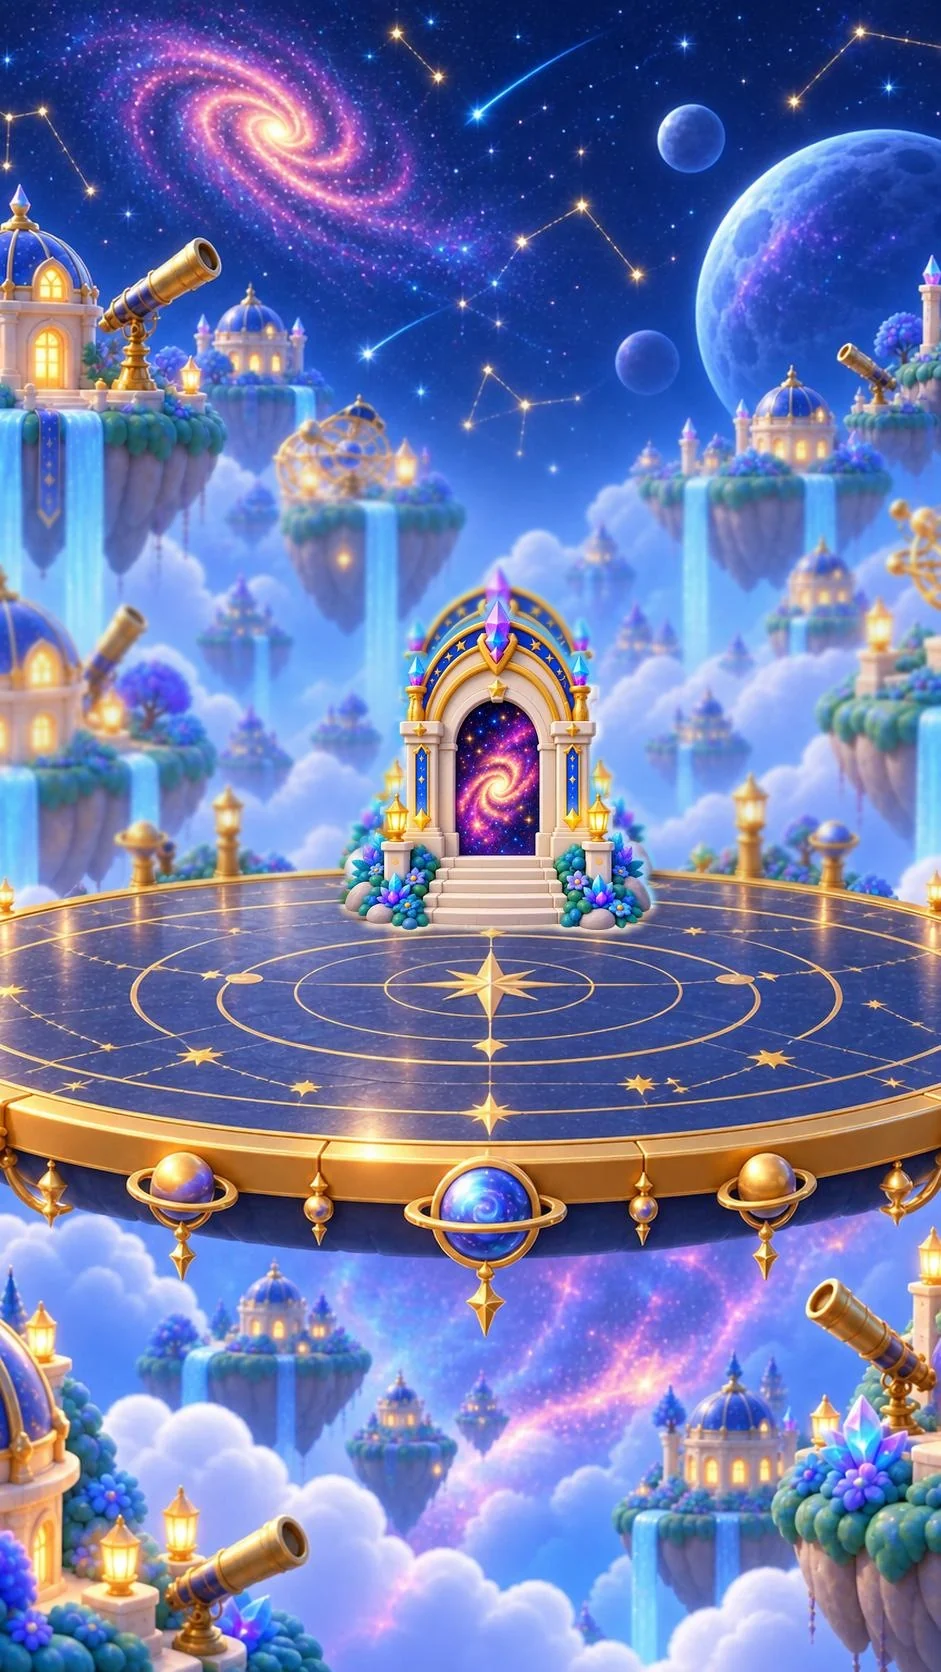
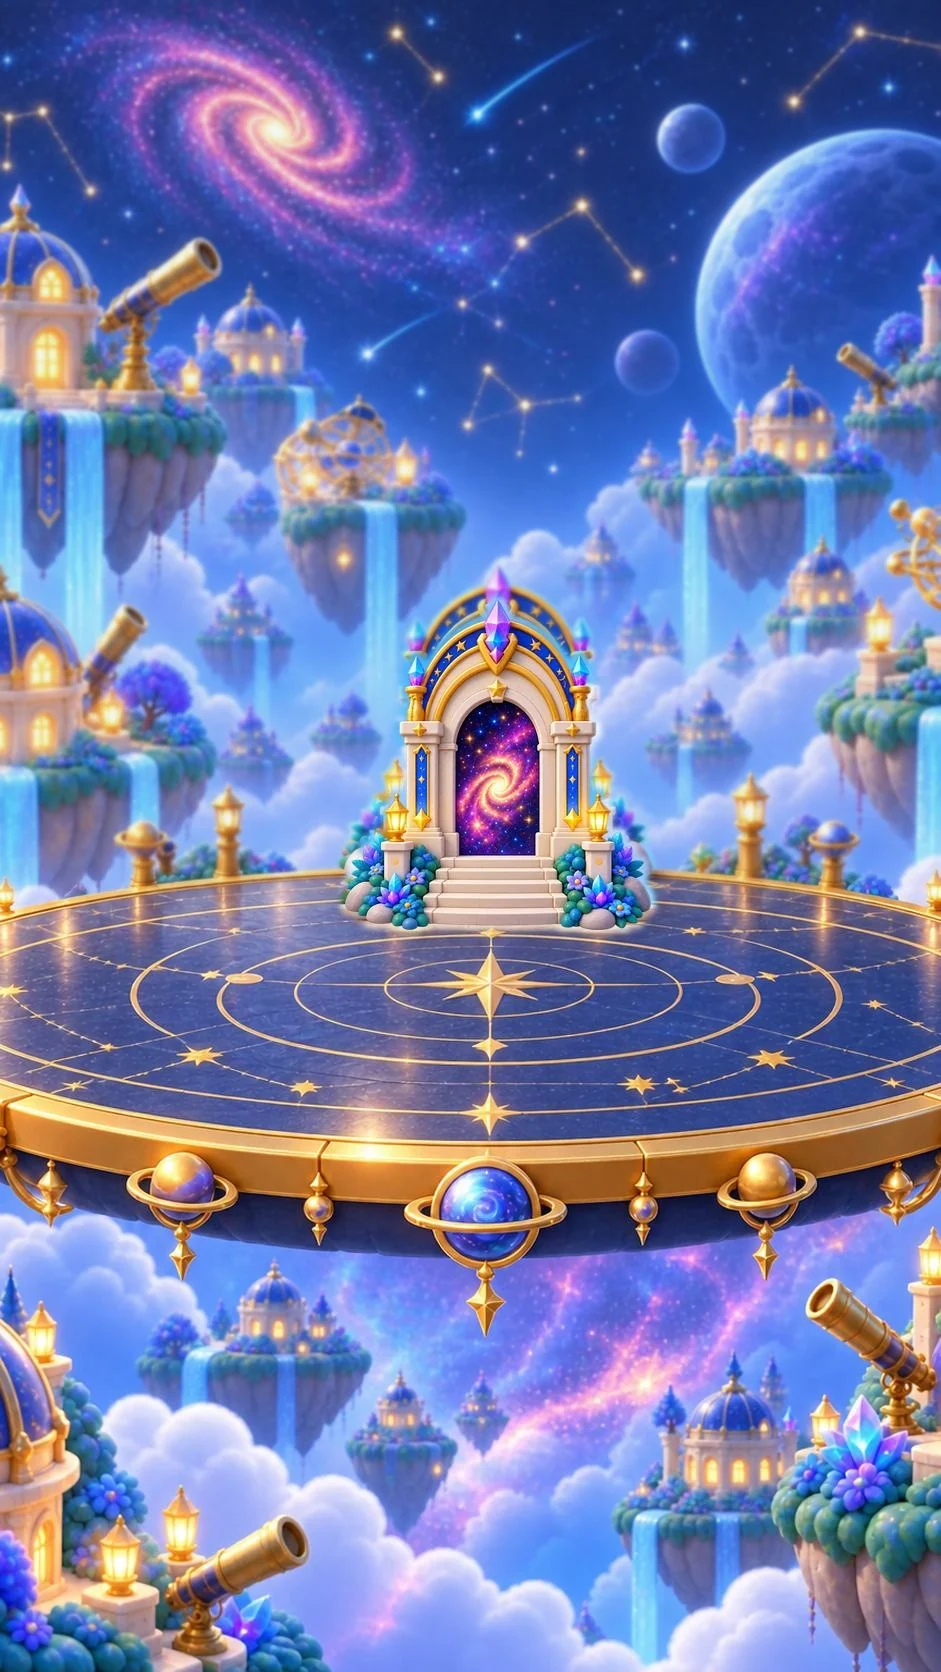
Boss Battle: bosses w5/w8-w11 + gates, dedup gate plates (w4/w6/w10), haze v2 plates, w3 attack recut (admin 4585/4589)
- new bosses wired (wire.py), attack frames recut with EXT=170 (no right-edge clip on w3/w5/w8/w11)
- arena plates: duplicate gates masked out on w6, w10 (w4 faint); uniform background haze (band-pass matched to w2, w1/w5/w7 lifted)
- ATTACK_DX hook per boss (empty: offsets crowded the screen edges; the weapon pass fixes the wand overlap instead)

diff --git a/src/games/BossBattle.tsx b/src/games/BossBattle.tsx
@@ -42,6 +42,13 @@ import w4Angry from '../assets/games/bosses/w4/angry.webp'
 import w4Defeated from '../assets/games/bosses/w4/defeated.webp'
 import w4Laugh from '../assets/games/bosses/w4/laugh.webp'
 import w4Gate from '../assets/games/bosses/w4/gate.webp'
+import w5Idle from '../assets/games/bosses/w5/idle.webp'
+import w5Attack from '../assets/games/bosses/w5/attack.webp'
+import w5Hurt from '../assets/games/bosses/w5/hurt.webp'
+import w5Angry from '../assets/games/bosses/w5/angry.webp'
+import w5Defeated from '../assets/games/bosses/w5/defeated.webp'
+import w5Laugh from '../assets/games/bosses/w5/laugh.webp'
+import w5Gate from '../assets/games/bosses/w5/gate.webp'
 import w6Idle from '../assets/games/bosses/w6/idle.webp'
 import w6Attack from '../assets/games/bosses/w6/attack.webp'
 import w6Hurt from '../assets/games/bosses/w6/hurt.webp'
@@ -56,6 +63,34 @@ import w7Angry from '../assets/games/bosses/w7/angry.webp'
 import w7Defeated from '../assets/games/bosses/w7/defeated.webp'
 import w7Laugh from '../assets/games/bosses/w7/laugh.webp'
 import w7Gate from '../assets/games/bosses/w7/gate.webp'
+import w8Idle from '../assets/games/bosses/w8/idle.webp'
+import w8Attack from '../assets/games/bosses/w8/attack.webp'
+import w8Hurt from '../assets/games/bosses/w8/hurt.webp'
+import w8Angry from '../assets/games/bosses/w8/angry.webp'
+import w8Defeated from '../assets/games/bosses/w8/defeated.webp'
+import w8Laugh from '../assets/games/bosses/w8/laugh.webp'
+import w8Gate from '../assets/games/bosses/w8/gate.webp'
+import w9Idle from '../assets/games/bosses/w9/idle.webp'
+import w9Attack from '../assets/games/bosses/w9/attack.webp'
+import w9Hurt from '../assets/games/bosses/w9/hurt.webp'
+import w9Angry from '../assets/games/bosses/w9/angry.webp'
+import w9Defeated from '../assets/games/bosses/w9/defeated.webp'
+import w9Laugh from '../assets/games/bosses/w9/laugh.webp'
+import w9Gate from '../assets/games/bosses/w9/gate.webp'
+import w10Idle from '../assets/games/bosses/w10/idle.webp'
+import w10Attack from '../assets/games/bosses/w10/attack.webp'
+import w10Hurt from '../assets/games/bosses/w10/hurt.webp'
+import w10Angry from '../assets/games/bosses/w10/angry.webp'
+import w10Defeated from '../assets/games/bosses/w10/defeated.webp'
+import w10Laugh from '../assets/games/bosses/w10/laugh.webp'
+import w10Gate from '../assets/games/bosses/w10/gate.webp'
+import w11Idle from '../assets/games/bosses/w11/idle.webp'
+import w11Attack from '../assets/games/bosses/w11/attack.webp'
+import w11Hurt from '../assets/games/bosses/w11/hurt.webp'
+import w11Angry from '../assets/games/bosses/w11/angry.webp'
+import w11Defeated from '../assets/games/bosses/w11/defeated.webp'
+import w11Laugh from '../assets/games/bosses/w11/laugh.webp'
+import w11Gate from '../assets/games/bosses/w11/gate.webp'
 import w1Plate from '../assets/games/bosses/w1/plate.webp'
 import w2Plate from '../assets/games/bosses/w2/plate.webp'
 import w3Plate from '../assets/games/bosses/w3/plate.webp'
@@ -120,10 +155,20 @@ const BOSSES: Record<number, Boss> = {
     frames: { normal: w3Idle, attack: w3Attack, hurt: w3Hurt, angry: w3Angry, beaten: w3Defeated, happy: w3Laugh }, gate: w3Gate },
   3: { name: 'Thornroot Brute', img: { w: 700, h: 560, top: 0.1357, bot: 0.982, foot: 0.557, fist: [0.37, 0.491], chest: [0.557, 0.601] },
     frames: { normal: w4Idle, attack: w4Attack, hurt: w4Hurt, angry: w4Angry, beaten: w4Defeated, happy: w4Laugh }, gate: w4Gate },
+  4: { name: 'Toadstool Troll', img: { w: 700, h: 560, top: 0.1696, bot: 0.982, foot: 0.557, fist: [0.37, 0.511], chest: [0.557, 0.616] },
+    frames: { normal: w5Idle, attack: w5Attack, hurt: w5Hurt, angry: w5Angry, beaten: w5Defeated, happy: w5Laugh }, gate: w5Gate },
   5: { name: 'Eclipse Sentinel', img: { w: 700, h: 560, top: 0.1143, bot: 0.982, foot: 0.557, fist: [0.37, 0.479], chest: [0.557, 0.592] },
     frames: { normal: w6Idle, attack: w6Attack, hurt: w6Hurt, angry: w6Angry, beaten: w6Defeated, happy: w6Laugh }, gate: w6Gate },
   6: { name: 'Frostfang Yeti', img: { w: 700, h: 560, top: 0.1732, bot: 0.982, foot: 0.557, fist: [0.37, 0.513], chest: [0.557, 0.618] },
     frames: { normal: w7Idle, attack: w7Attack, hurt: w7Hurt, angry: w7Angry, beaten: w7Defeated, happy: w7Laugh }, gate: w7Gate },
+  7: { name: 'Cinder Drake', img: { w: 700, h: 560, top: 0.1804, bot: 0.982, foot: 0.557, fist: [0.37, 0.517], chest: [0.557, 0.621] },
+    frames: { normal: w8Idle, attack: w8Attack, hurt: w8Hurt, angry: w8Angry, beaten: w8Defeated, happy: w8Laugh }, gate: w8Gate },
+  8: { name: 'Rune Colossus', img: { w: 700, h: 560, top: 0.2179, bot: 0.982, foot: 0.557, fist: [0.37, 0.539], chest: [0.557, 0.638] },
+    frames: { normal: w9Idle, attack: w9Attack, hurt: w9Hurt, angry: w9Angry, beaten: w9Defeated, happy: w9Laugh }, gate: w9Gate },
+  9: { name: 'Gargoyle Proctor', img: { w: 700, h: 560, top: 0.2018, bot: 0.982, foot: 0.557, fist: [0.37, 0.529], chest: [0.557, 0.631] },
+    frames: { normal: w10Idle, attack: w10Attack, hurt: w10Hurt, angry: w10Angry, beaten: w10Defeated, happy: w10Laugh }, gate: w10Gate },
+  10: { name: 'Nebula Titan', img: { w: 700, h: 560, top: 0.1911, bot: 0.982, foot: 0.557, fist: [0.37, 0.523], chest: [0.557, 0.626] },
+    frames: { normal: w11Idle, attack: w11Attack, hurt: w11Hurt, angry: w11Angry, beaten: w11Defeated, happy: w11Laugh }, gate: w11Gate },
 // </bosses-table>
 }
 const ARENAS: Record<number, { plate: string; feet: [number, number] }> = {
@@ -141,6 +186,9 @@ const ARENAS: Record<number, { plate: string; feet: [number, number] }> = {
   10: { plate: w11Plate, feet: [1043, 1028] },
 // </arenas-table>
 }
+// attack-frame offset (plate px, + = away from the hero) so the projectile drawn in each attack sprite stops short of the
+// hero's wand (admin 4585 attack QA); 0-based world. w2 throws its weapon separately, so its frame needs none
+const ATTACK_DX: Record<number, number> = {}   // tried 10-09, crowded the screen edges; the weapon pass (projectile flown in JS) fixes the overlap instead
 const DEFAULT_BOSS: Boss = { name: 'Grammar Boss', img: GOLEM_IMG, frames: GOLEM }
 const bossFor = (world?: number): Boss => {
   const q = typeof location !== 'undefined' ? new URLSearchParams(location.search).get('bossw') : null   // ?bossw=2 (1-based) for previews
@@ -191,6 +239,11 @@ export function BossBattle({ items, onFinish, onAnswer, world }: MiniGameProps) 
     const q = typeof location !== 'undefined' ? new URLSearchParams(location.search).get('bossw') : null
     const w = q ? +q - 1 : world
     return w != null ? WEAPONS[w] ?? null : null
+  }, [world])
+  const attackDx = useMemo(() => {
+    const q = typeof location !== 'undefined' ? new URLSearchParams(location.search).get('bossw') : null
+    const w = q ? +q - 1 : world
+    return w != null ? ATTACK_DX[w] ?? 0 : 0
   }, [world])
   const weaponImg = useRef<HTMLImageElement | null>(null)
   useEffect(() => { if (!weapon) { weaponImg.current = null; return } const im = new Image(); im.src = weapon.src; weaponImg.current = im }, [weapon])
@@ -501,7 +554,8 @@ export function BossBattle({ items, onFinish, onAnswer, world }: MiniGameProps) 
         <div className="bb2-sprite bb2-golem" ref={golemEl} style={pct(BOSS_BOX)}>
           <div className="bb2-bob">
             {(Object.keys(boss.frames) as GolemState[]).filter((k, i, a) => a.findIndex((x) => boss.frames[x] === boss.frames[k]) === i || golem === k).map((k) => (
-              <img key={k} src={boss.frames[k]} alt="" draggable={false} className={boss.frames[golem] === boss.frames[k] ? 'on' : ''} />
+              <img key={k} src={boss.frames[k]} alt="" draggable={false} className={boss.frames[golem] === boss.frames[k] ? 'on' : ''}
+                style={k === 'attack' && attackDx ? { transform: `translateX(${(attackDx / BOSS_BOX.w) * 100}%)` } : undefined} />
             ))}
           </div>
           <i className="bb2-core" style={{ left: `${BOSS_IMG.chest[0] * 100}%`, top: `${BOSS_IMG.chest[1] * 100}%` }} />
